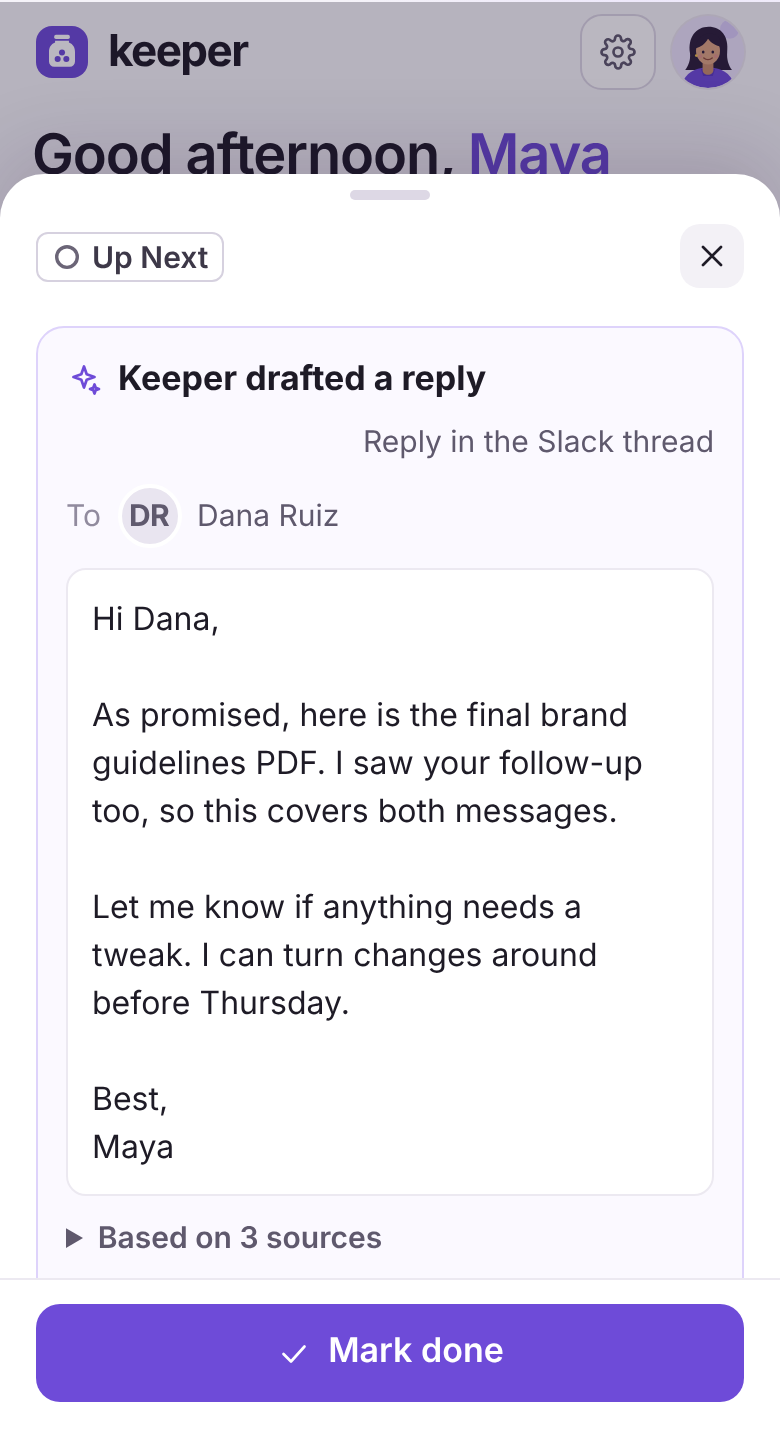
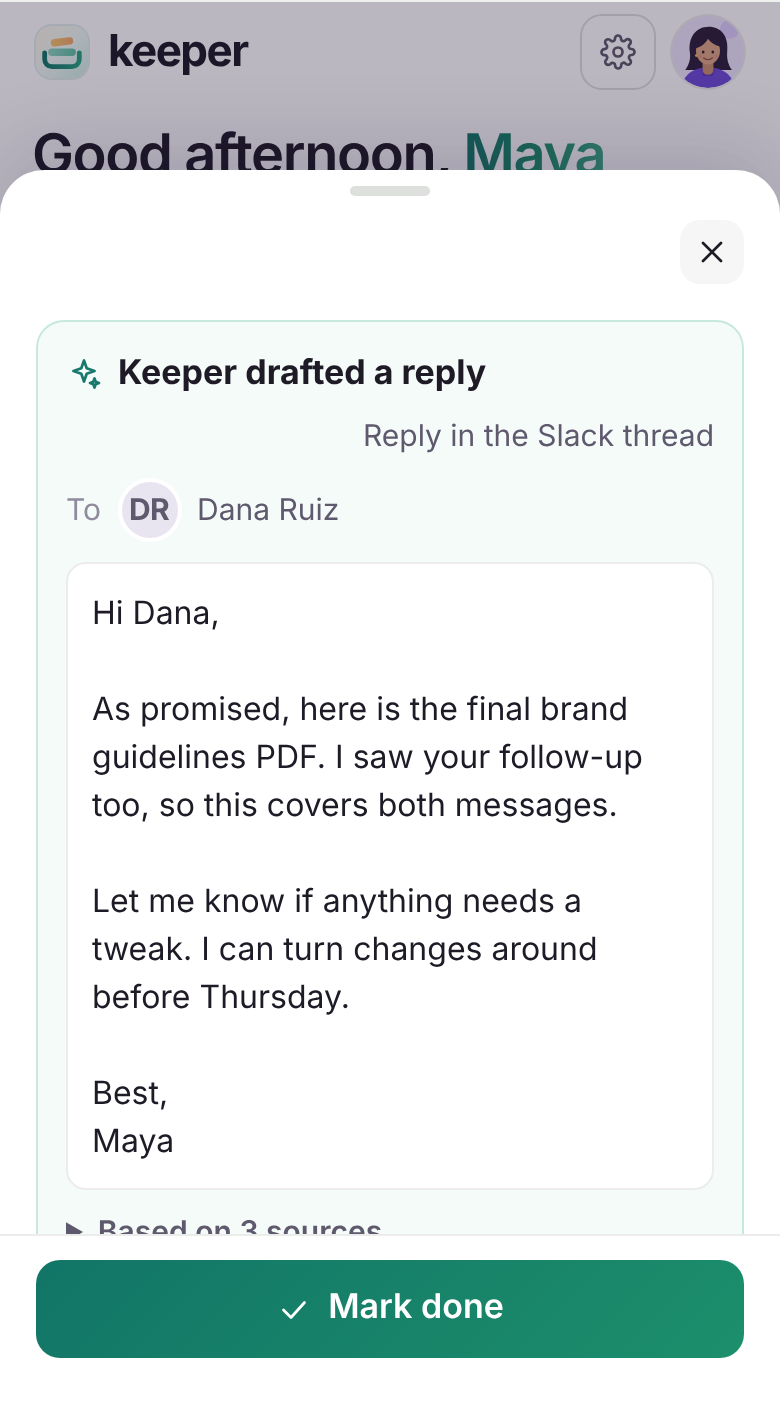
Landing: recapture app screenshots after reskin; orb clip fix; task crop shows Open in Gmail
Claude-Session: https://claude.ai/code/session_014YvqzXwex4AdHRyQpUpAPT

diff --git a/styles.css b/styles.css
@@ -1032,3 +1032,19 @@ body{background:#EEF0EE}
 /* smoother swirl: blur the colour fields, clip to a crisp circle */
 .orb-swirl{inset:-10%;overflow:visible;border-radius:0;filter:blur(9px) saturate(1.1);clip-path:circle(41.7% at 50% 50%)}
 .orb-swirl.two{filter:blur(14px);opacity:.55;background:conic-gradient(from 30deg,rgba(255,255,255,0) 0deg,rgba(255,255,255,.6) 70deg,rgba(242,181,68,.35) 150deg,rgba(14,106,93,.45) 240deg,rgba(255,255,255,0) 360deg)}
+
+/* orb v3: clip on a static circle, rotate the colour fields inside it (no square edges while spinning) */
+.orb-swirl,.orb-swirl.two{inset:0;border-radius:50%;overflow:hidden;clip-path:circle(50% at 50% 50%);filter:none;background:none!important;animation:none!important}
+.orb-swirl::before{content:"";position:absolute;inset:-12%;filter:blur(9px) saturate(1.1);animation:orbspin 14s linear infinite;
+  background:
+    radial-gradient(circle at 24% 28%,#F2B544 0%,rgba(242,181,68,0) 40%),
+    radial-gradient(circle at 16% 66%,#EE9367 0%,rgba(238,147,103,0) 36%),
+    radial-gradient(circle at 76% 24%,#CFF0E5 0%,rgba(207,240,229,0) 44%),
+    radial-gradient(circle at 64% 74%,#0E6A5D 0%,rgba(14,106,93,0) 52%),
+    radial-gradient(circle at 50% 50%,#23A584 0%,#5FC2A7 55%,#A6DFCD 100%)}
+.orb-swirl.two{mix-blend-mode:soft-light;opacity:.55}
+.orb-swirl.two::before{filter:blur(14px);animation:orbspin 9s linear infinite reverse;
+  background:conic-gradient(from 30deg,rgba(255,255,255,0) 0deg,rgba(255,255,255,.6) 70deg,rgba(242,181,68,.35) 150deg,rgba(14,106,93,.45) 240deg,rgba(255,255,255,0) 360deg)}
+.orb.rec .orb-swirl::before{animation-duration:5s}
+.orb.rec .orb-swirl.two::before{animation-duration:3.5s}
+@media (prefers-reduced-motion:reduce){.orb-swirl::before{animation:none!important}}

diff --git a/landing.html b/landing.html
@@ -750,7 +750,7 @@
     <div class="feat-grid">
       <article class="feat f1 rev">
         <div class="feat-txt"><span class="tagline">Pulled from your channels</span><h3>See where every task came from</h3><p>The exact line from the email, Slack or text that created it, with the original one tap away.</p></div>
-        <div class="crop"><img src="img/m-task.png" alt="A task showing the original email it came from, with an Open in Gmail button" loading="lazy" style="width:100%;transform:translate(0%,-44%)"></div>
+        <div class="crop"><img src="img/m-task.png" alt="A task showing the original email it came from, with an Open in Gmail button" loading="lazy" style="width:100%;transform:translate(0%,-50%)"></div>
       </article>
       <article class="feat f2 rev">
         <div class="feat-txt"><span class="tagline">Mobile first</span><h3>Your day on one screen</h3><p>Sorted by due date. Swipe right to finish a task.</p></div>
